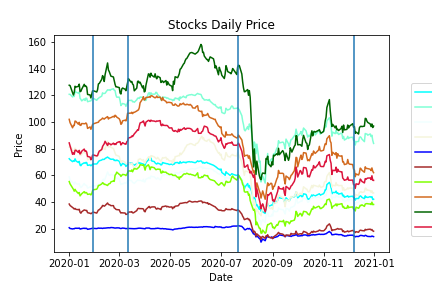
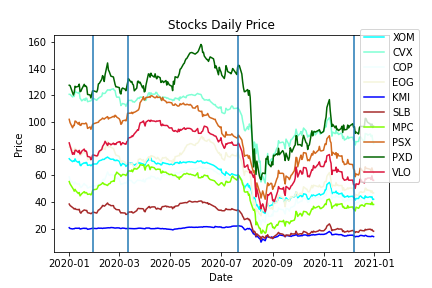
Fixes bar legend box

Changed region(s): [[0.8125, 0.0938, 1.0, 0.6875], [0.9329, 0.7812, 1.0, 0.8438], [0.9329, 0.7188, 1.0, 0.75]]

diff --git a/energy_analysis/insight.md b/energy_analysis/insight.md
@@ -41,7 +41,7 @@ The XLE index contains industries from the Energy economic sector, which, in tur
 ![percentage_price_stats](app_screenshots/percentage_price_stats.png)
 
 ## Bar chart analysis
-By looking at the graph we can see that there is no significant difference in the price of a stock and its performance, the general behaviour of the industry stands the same
+By looking at the graph we can see that there is no significant difference in the price of a stock and its performance, the relative price different stays relatively the same within the industry
 
 ![bar_chart](plot_images/bar_chart.png)
 
